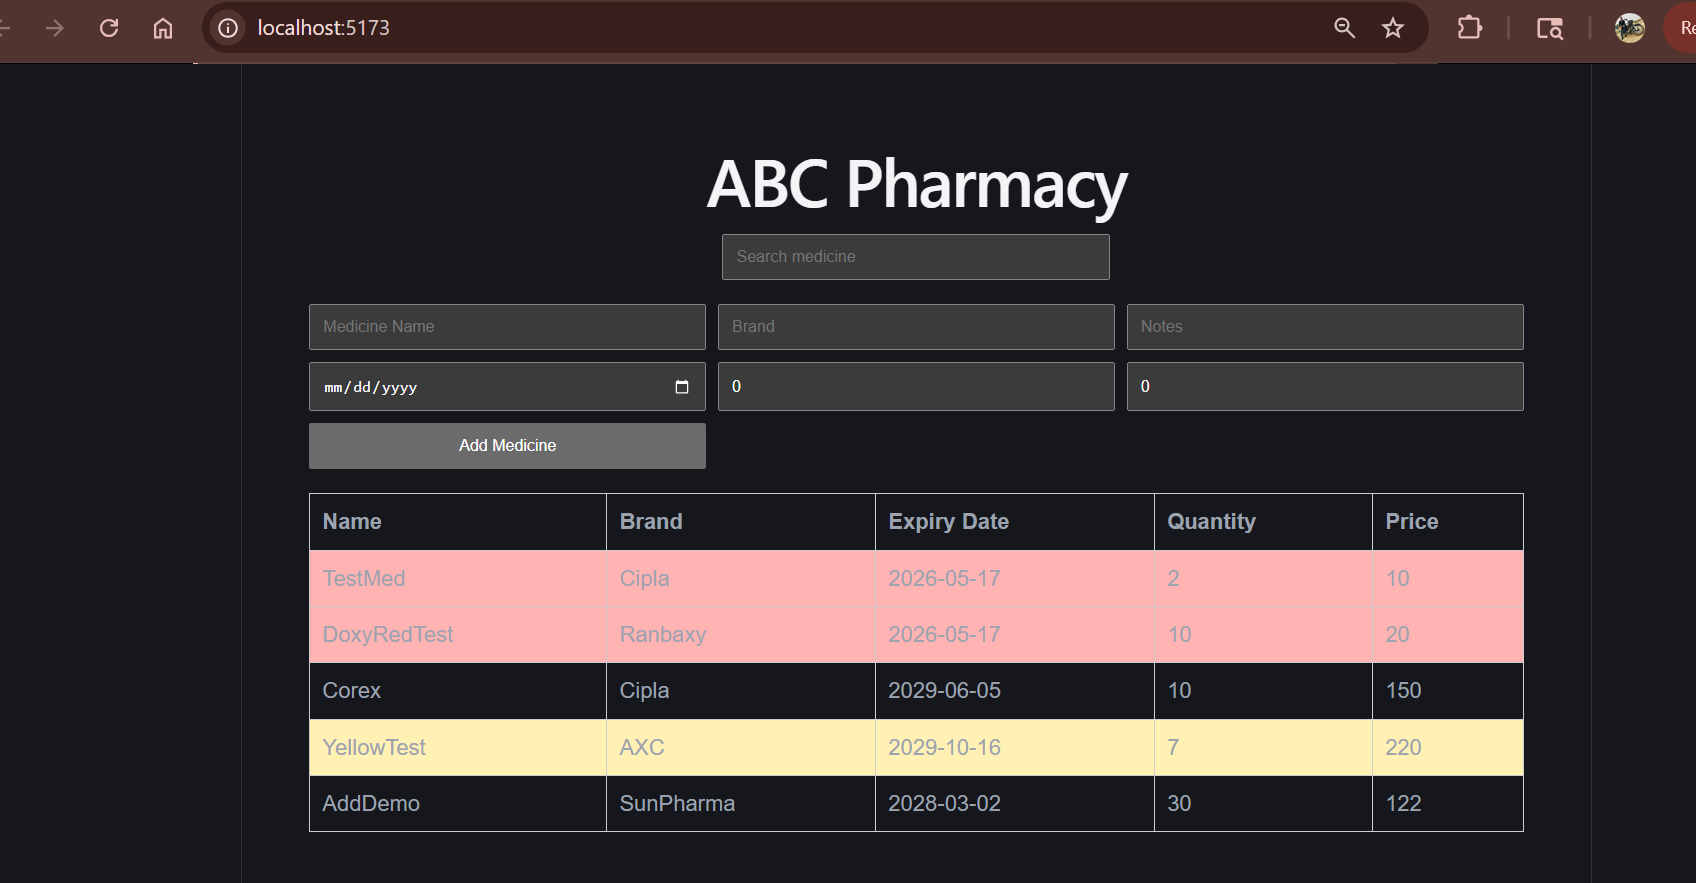
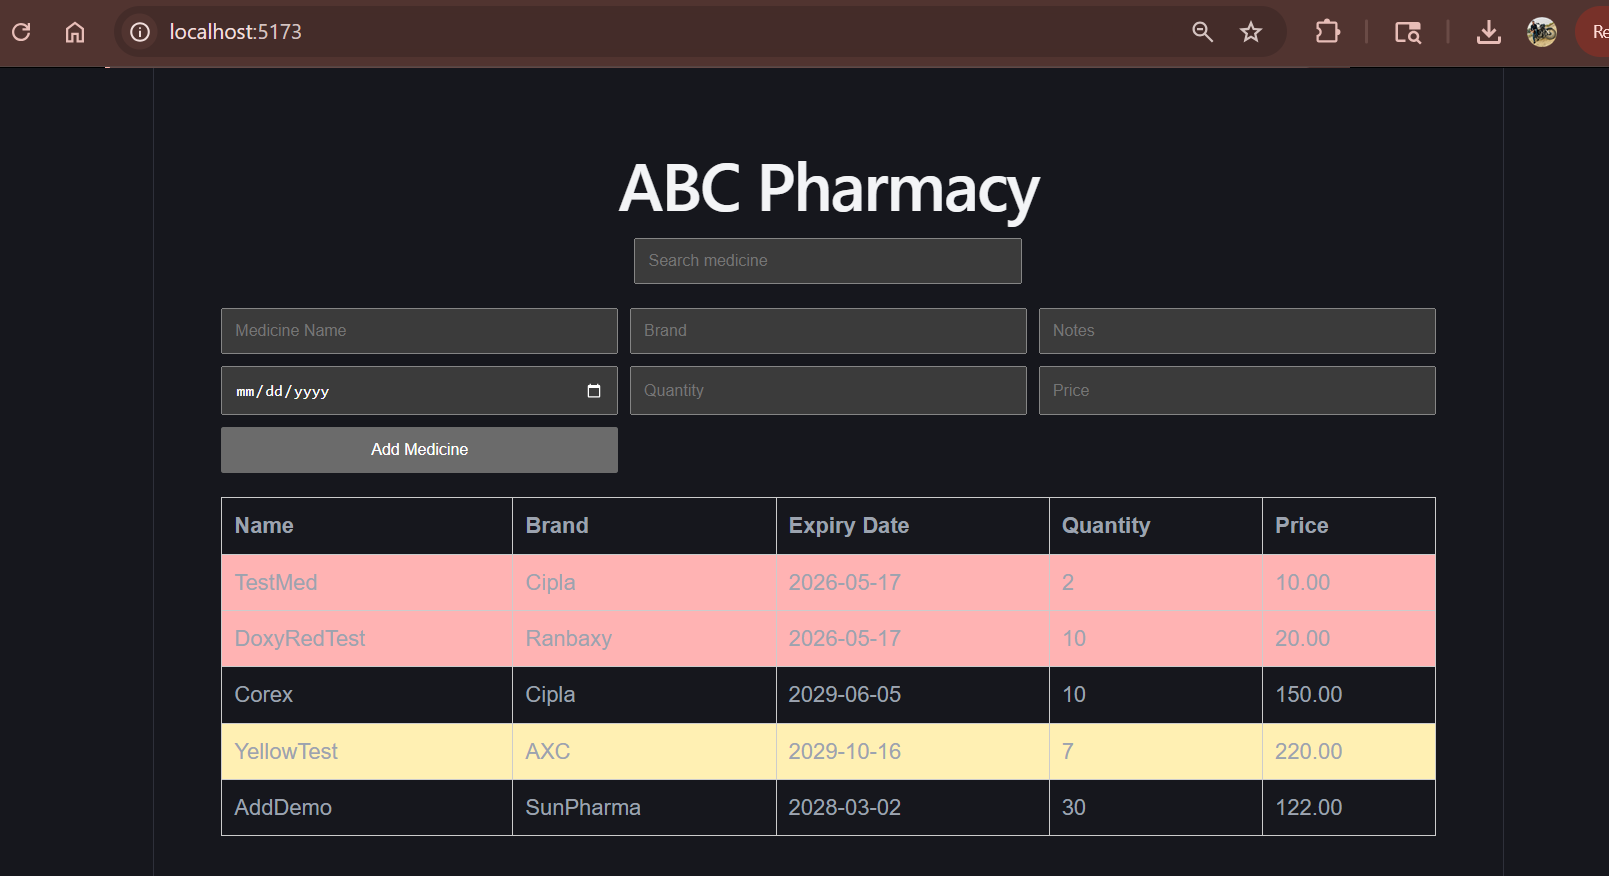
modified UI logic

Changed region(s): [[0.1243, 0.1541, 0.9012, 0.9555], [0.0, 0.0, 1.0, 0.0925], [0.8701, 0.5548, 0.9012, 0.5856]]

diff --git a/medicine-ui/medicine-ui/src/MedicineTable.jsx b/medicine-ui/medicine-ui/src/MedicineTable.jsx
@@ -35,7 +35,7 @@ function MedicineTable({ medicines }) {
                         <td>{medicine.brand}</td>
                         <td>{medicine.expiryDate.split("T")[0]}</td>
                         <td>{medicine.quantity}</td>
-                        <td>{medicine.price}</td>
+                        <td>{medicine.price.toFixed(2)}</td>
                     </tr>
                 ))}
             </tbody>

diff --git a/medicine-ui/medicine-ui/src/MedicineForm.jsx b/medicine-ui/medicine-ui/src/MedicineForm.jsx
@@ -6,8 +6,8 @@ function MedicineForm({ onMedicineAdded }) {
         fullName: "",
         notes: "",
         expiryDate: "",
-        quantity: 0,
-        price: 0,
+        quantity: "Quantity",
+        price: "Price",
         brand: "",
     });
 
